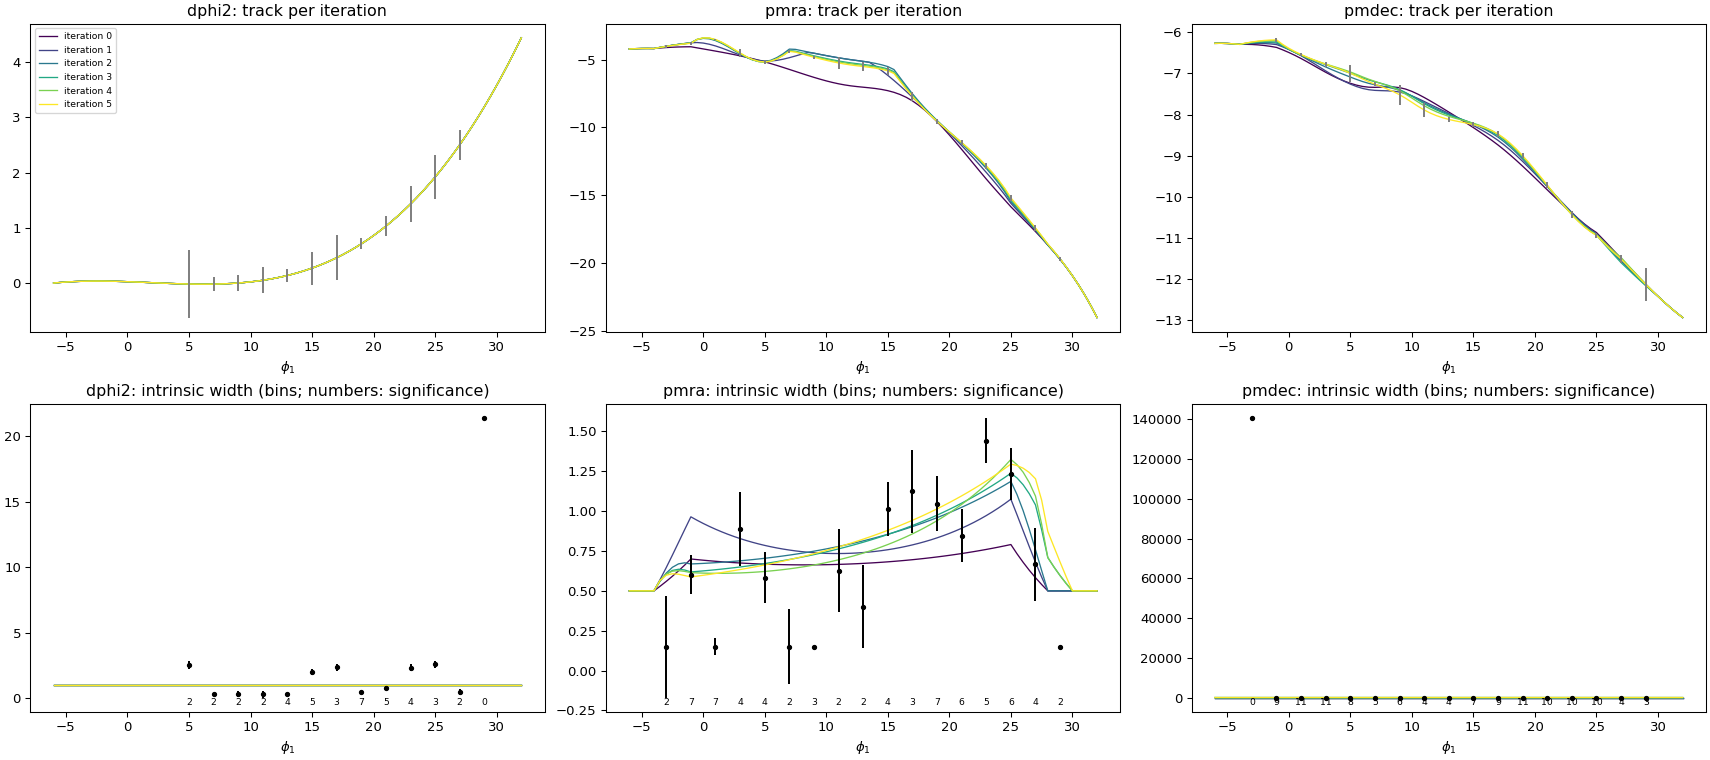
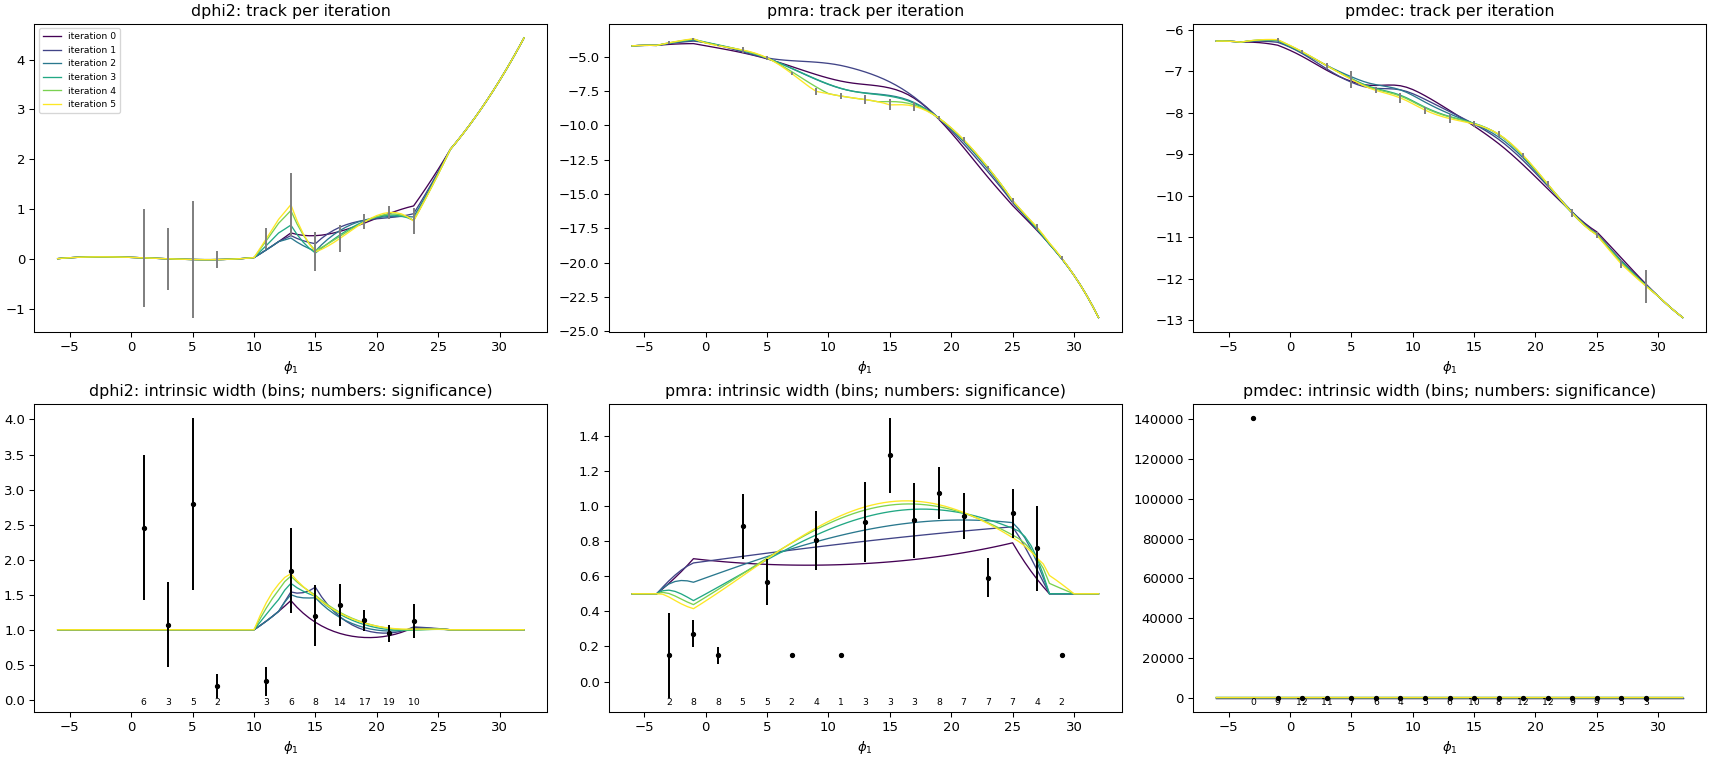
stream_masks.py: sky mask fitted (binned Gaussian on background-subtracted dphi2 profiles, 4-deg bins at phi1 0-24); PM fits use centre +- clip(2s, 1, 3)

diff --git a/bin/streams/stream_masks.py b/bin/streams/stream_masks.py
@@ -31,6 +31,9 @@ that column; PM rows = (N - B)/sqrt(B); right: masks and members.
 Outputs: results/plot_data/stream_masks.json (tracks and widths on a phi1 grid, per-bin fit tables, iteration history),
 plots/stream_masks_fits.png (per-bin centres/widths with errors per iteration), plots/stream_masks_xsel.png (cross-selection with the
 final masks at k = 2, background-subtracted, with STREAMFINDER members in a separate column).
+Sky mask (user 2026-10-23): fitted per 4-deg bin (overlapping, step 2) at phi1 0-24 (fit_sky_binned: Gaussian on the background-subtracted dphi2 profile,
+quadratic background from |v| > 4, upper-branch window excluded); the PM fits use the window centre +- clip(2 s, 1, 3) deg (3 deg
+where not fitted). Dashed lines in the figure.
 Usage: PYTHONPATH=src python bin/streams/stream_masks.py
 """
 import json, sys
@@ -46,7 +49,7 @@ GRID = np.arange(-6, 32.01, 0.5)
 BINS = [(c-1, c+1) for c in range(-3, 25, 2)]+[(23, 27), (25, 29), (27, 31)]   # 2-deg bins from phi1 -4; 4-deg bins at the far end
 # (user: signal to phi1 27-28; 2-deg bins there collapsed onto the width floor); sky fits phi1 >= 14 only (footprint edge)
 K_ITER, K_FINAL, NIT = 2.5, 2.0, 6
-CAP = dict(pmra=1.5, pmdec=1.5, dphi2=1.5)              # width caps
+CAP = dict(pmra=1.5, pmdec=1.5, dphi2=2.5)              # width caps
 DAMP, SIG_MIN = 0.5, 4.0                                # damped track updates; bins accepted at >= 4 sigma
 FLOOR = dict(pmra=0.15, pmdec=0.15, dphi2=0.3)   # zero-width spikes on noise (null test) -> floors; floor-collapsed bins not used
 
@@ -76,9 +79,13 @@ SKY_HALF, OFF_SKY = 3.0, (5.0, 14.0)    # user: sky selection for the other pane
 
 
 def SKYC(u):
-    """centre of the fixed sky window: the starting (user-marked lower-branch) track -- ~0 at phi1 < 20, rising to +3 at phi1 28
-    where the stream bends steeply in the chord frame (members' dphi2 +1.0..+1.6 at 24-27)."""
+    """centre of the sky window: the fitted sky track (starts at the user-marked lower-branch track)."""
     return np.interp(u, GRID, SKY0)
+
+
+def SKYH(u):
+    """half-width of the sky window: 2 x fitted width (user 2026-10-23: fit the sky mask too), clipped to 1-3 deg; 3 deg where not fitted."""
+    return np.interp(u, GRID, SKYW)
 
 
 def other_masks(D, T, q, k, sky=True):
@@ -88,7 +95,7 @@ def other_masks(D, T, q, k, sky=True):
             continue
         if p == "dphi2":
             if sky:
-                m &= np.abs(D["dphi2"]-SKYC(u)) < SKY_HALF
+                m &= np.abs(D["dphi2"]-SKYC(u)) < SKYH(u)
             continue
         e2 = D[err]**2 if err else 0.
         m &= np.abs(D[col]-ev(T, p, u)) < k*np.sqrt(ev(T, p, u, "s")**2+e2)
@@ -150,6 +157,31 @@ def fit_sky(v, du, two, mu2_0, W=8.0):
     if two:
         out.update(mu2=p[3], s2=np.exp(p[4]), f2=np.exp(p[5])/(1+np.exp(p[2])+np.exp(p[5])))
     return out
+
+
+def fit_sky_binned(v, excl=None, W=10.0, db=0.25):
+    """Sky profile in a bin: histogram of v = dphi2 - track over +-W; background = quadratic in v fitted to |v| > 4 (both sides; a
+    constant if one side is empty -- footprint edge); excess fitted by a Gaussian (Poisson-weighted least squares, var = N + B);
+    bins in `excl` (upper-branch window) left out of both fits. Returns dict like fit_pm (mu, mu_err, s, s_err, N, sig)."""
+    from scipy.optimize import curve_fit
+    E = np.arange(-W, W+1e-9, db); c = 0.5*(E[1:]+E[:-1]); h = np.histogram(v, E)[0].astype(float)
+    use = np.ones(len(c), bool) if excl is None else ~excl(c)
+    wing = use & (np.abs(c) > 4) & (h > 0); lo, hi = wing & (c < 0), wing & (c > 0)
+    if wing.sum() < 8:
+        return None
+    dg = 2 if (lo.sum() >= 4 and hi.sum() >= 4) else 0
+    B = np.clip(np.polyval(np.polyfit(c[wing], h[wing], dg), c), 0, None); ex = h-B; var = np.maximum(h+B, 1.)
+    k = use & (np.abs(c) < 6)
+    g = lambda x, A, m, sg: A*np.exp(-0.5*((x-m)/sg)**2)
+    try:
+        p, cov = curve_fit(g, c[k], ex[k], p0=(max(ex[k].max(), 1.), float(c[k][np.argmax(gaussian_filter(ex[k], 2))]), 1.0),
+                           sigma=np.sqrt(var[k]), absolute_sigma=True, bounds=((0, -5, 0.2), (np.inf, 5, 4)), maxfev=20000)
+    except Exception:
+        return None
+    A, m, sg = p; N = A*sg*np.sqrt(2*np.pi)/db; w2 = np.abs(c-m) < 2*sg
+    sig = (ex[w2].sum())/np.sqrt(max(B[w2].sum(), 1.))
+    return dict(mu=float(m), mu_err=float(np.sqrt(max(cov[1, 1], 0))), s=float(sg), s_err=float(np.sqrt(max(cov[2, 2], 0))), N=float(N),
+                sig=float(sig), n=int(len(v)), f=float(N/max(len(v), 1)))
 
 
 def err1d(f, p, i, h=0.02):
@@ -215,13 +247,13 @@ w95 = first w with F >= frac (clipping the excess to positive values made noise 
             c = 0.5*(a0+a1); kb = sel & (u >= a0) & (u < a1)
             vu = np.nan
             if q == "dphi2":
-                if c < 14:
+                if c < 0 or c > 24:
                     continue
                 v = x[kb]-ev(T, q, u[kb]); h = np.histogram(v, E)[0].astype(float)
                 vu = tu(np.array([c]))[0]-ev(T, q, np.array([c]))[0]; wing = (np.abs(cc) > 4) & ~(np.abs(cc-vu) < 2 if np.isfinite(vu) else False)
                 B = np.clip(np.polyval(np.polyfit(cc[wing], h[wing], 2), cc), 0, None)
             else:
-                dsky = x-ev(T, "dphi2", u); on = kb & (np.abs(x-SKYC(u)) < SKY_HALF); off = kb & (np.abs(x-SKYC(u)) > OFF_SKY[0]) & (np.abs(x-SKYC(u)) < OFF_SKY[1])
+                dsky = x-ev(T, "dphi2", u); on = kb & (np.abs(x-SKYC(u)) < SKYH(u)); off = kb & (np.abs(x-SKYC(u)) > OFF_SKY[0]) & (np.abs(x-SKYC(u)) < OFF_SKY[1])
                 h = np.histogram((D[q]-ev(T, q, u))[on], E)[0].astype(float); hf = np.histogram((D[q]-ev(T, q, u))[off], E)[0].astype(float)
                 wing = np.abs(cc) > W-2; B = hf*h[wing].sum()/max(hf[wing].sum(), 1)
             fit = [r for r in TAB[q] if abs(r["c"]-c) < 0.1]
@@ -247,7 +279,7 @@ w95 = first w with F >= frac (clipping the excess to positive values made noise 
 
 
 def main():
-    D, T, up = load_data(); u, x = D["phi1"], D["dphi2"]; global SKY0; SKY0 = T["dphi2"]["c"].copy()
+    D, T, up = load_data(); u, x = D["phi1"], D["dphi2"]; global SKY0, SKYW; SKY0 = T["dphi2"]["c"].copy(); SKYW = np.full(GRID.size, SKY_HALF)
     print(f"{len(u)} stars in the CMD mask", flush=True)
     tu = lambda p: np.interp(p, up[:, 0], up[:, 1], left=np.nan, right=np.nan)
     hist, tables = [], {}; T0 = {q: T[q]["c"].copy() for q in T}; ANCHOR = dict(pmra=1.5, pmdec=1.0, dphi2=2.0)   # max departure from the start
@@ -262,15 +294,17 @@ def main():
             for a0, a1 in BINS:
                 c = 0.5*(a0+a1); kb = sel & (u >= a0) & (u < a1)
                 if q in ("pmra", "pmdec"):
-                    w_on = np.abs(x-SKYC(u)) < SKY_HALF
+                    w_on = np.abs(x-SKYC(u)) < SKYH(u)
                     offb = (np.abs(x-SKYC(u)) > OFF_SKY[0]) & (np.abs(x-SKYC(u)) < OFF_SKY[1])
                     v = D[q]-ev(T, q, u); e = D[q+"_error"]
                     r = fit_pm(v[kb & w_on], e[kb & w_on], u[kb & w_on]-c, v[kb & offb])
                 else:
-                    if c < 4:
+                    if c < 0 or c > 24:                                       # beyond 24 the sky fits latch onto noise (marked track kept)
                         continue
-                    v = x-ev(T, q, u); two = 14 <= c <= 21
-                    r = fit_sky(v[kb], u[kb]-c, two, float(np.nanmedian(tu(np.array([c]))-ev(T, q, np.array([c])))) if two else 0.)
+                    kb = sel & (np.abs(u-c) < 2.0)                            # sky: 4-deg bins (overlapping), 2-deg bins too noisy
+                    v = x-ev(T, q, u); vu = tu(np.array([c]))[0]-ev(T, q, np.array([c]))[0]
+                    excl = (lambda cc, vu=vu: np.abs(cc-vu) < 1.25) if np.isfinite(vu) else None
+                    r = fit_sky_binned(v[kb], excl)
                 if r is not None:
                     r.update(c=c); rows.append(r)
             cs = np.array([r["c"] for r in rows]); mu = np.array([r["mu"] for r in rows]); me = np.array([r["mu_err"] for r in rows])
@@ -284,6 +318,11 @@ def main():
                 T[q]["s"] = np.clip(np.exp(DAMP*np.log(np.maximum(sw(GRID), 1e-3))+(1-DAMP)*np.log(T[q]["s"])), FLOOR[q], CAP[q])
             T[q]["range"] = sm[1] if sm is not None else None
             tables[q] = rows
+            if q == "dphi2":                                          # update the sky window used by the PM fits
+                SKY0[:] = T[q]["c"]; fitted = np.zeros(GRID.size, bool)
+                if sm is not None:
+                    fitted = (GRID >= sm[1][0]-1) & (GRID <= sm[1][1]+1)
+                SKYW[:] = np.where(fitted, np.clip(2*T[q]["s"], 1.0, 3.0), SKY_HALF)
             print(f"iter {it} {q:5s}: " + " ".join(f"[{r['c']:.0f}: d{r['mu']:+.2f}+-{r['mu_err']:.2f} s{r['s']:.2f} {r['sig']:.0f}s]" for r in rows), flush=True)
         hist.append({q: dict(c=T[q]["c"].tolist(), s=T[q]["s"].tolist()) for q in T})
         if moved and max(moved) < 0.1:
@@ -301,7 +340,8 @@ def main():
             l_, h_ = sm3(l_), sm3(h_); a_, b_ = xs.min(), xs.max(); g = np.clip(GRID, a_, b_)
             T[q]["lo_emp"] = np.where((GRID >= a_-1) & (GRID <= b_+2), np.interp(g, xs, l_), np.nan); T[q]["hi_emp"] = np.where((GRID >= a_-1) & (GRID <= b_+2), np.interp(g, xs, h_), np.nan)
         print(f"{q} 95% borders: " + " ".join(f"[{r['c']:.0f}: {r['lo']:+.2f}..{r['hi']:+.2f} N{r['N']:.0f} {r['sig']:.0f}s {'W' if r['wing'] else 'g'}{r['wing_sig']:.1f}]" for r in rows), flush=True)
-    out = dict(grid=GRID.tolist(), tracks={q: dict(c=T[q]["c"].tolist(), s=T[q]["s"].tolist(), range=T[q]["range"],
+    out_sky = dict(centre=SKY0.tolist(), half_width=SKYW.tolist())
+    out = dict(sky_window=out_sky, grid=GRID.tolist(), tracks={q: dict(c=T[q]["c"].tolist(), s=T[q]["s"].tolist(), range=T[q]["range"],
                                                   lo95=np.nan_to_num(T[q]["lo_emp"], nan=-99).tolist(), hi95=np.nan_to_num(T[q]["hi_emp"], nan=99).tolist()) for q in T},
                borders95=CB,
                tables={q: [{k: float(v) for k, v in r.items()} for r in rows] for q, rows in tables.items()}, history=hist,
@@ -336,7 +376,7 @@ def main():
                 if off.sum() > 10:
                     B[jj] = np.clip(np.polyval(np.polyfit(cy[off], H[jj, off], 2), cy), 0, None)
         else:
-            dsky = x-ev(T, "dphi2", u); onS = np.abs(x-SKYC(u)) < SKY_HALF; offS = (np.abs(x-SKYC(u)) > OFF_SKY[0]) & (np.abs(x-SKYC(u)) < OFF_SKY[1])
+            dsky = x-ev(T, "dphi2", u); onS = np.abs(x-SKYC(u)) < SKYH(u); offS = (np.abs(x-SKYC(u)) > OFF_SKY[0]) & (np.abs(x-SKYC(u)) < OFF_SKY[1])
             sel2 = other_masks(D, T, q, K_FINAL) | True
             selp = other_masks(D, T, q, K_FINAL, sky=False)
             H = np.histogram2d(u[selp & onS], v[selp & onS], (E1, Ey))[0]
@@ -362,7 +402,7 @@ def main():
         wt = np.median(D[err]) if err else 0.
         if q == "dphi2":
             for a_ in ax[i]:
-                a_.plot(ph, SKYC(ph)+SKY_HALF, "k--", lw=0.8); a_.plot(ph, SKYC(ph)-SKY_HALF, "k--", lw=0.8)
+                a_.plot(ph, SKYC(ph)+SKYH(ph), "k--", lw=0.8); a_.plot(ph, SKYC(ph)-SKYH(ph), "k--", lw=0.8)
         for a_ in ax[i]:
             a_.fill_between(ph, ev(T, q, ph)-K_FINAL*np.sqrt(ev(T, q, ph, "s")**2+wt**2), ev(T, q, ph)+K_FINAL*np.sqrt(ev(T, q, ph, "s")**2+wt**2),
                             color="C0", alpha=0.15 if a_ is ax[i, 0] else 0.3, lw=0)
